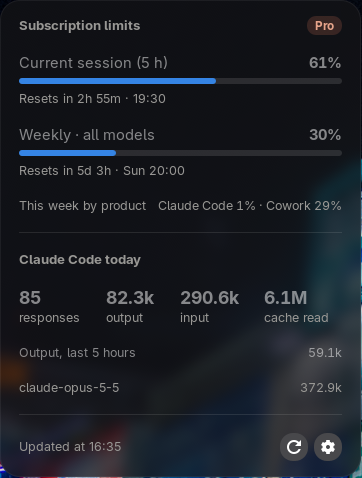
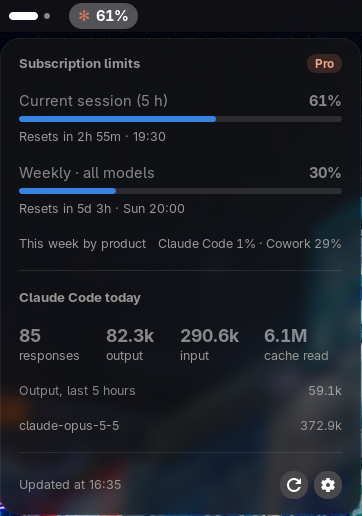
README: add table of contents, sharper screenshot

diff --git a/README.md b/README.md
@@ -2,13 +2,21 @@
 
 A small top-bar indicator for GNOME Shell that shows how much of your **Claude subscription limits** you have used, plus your **Claude Code token usage** for the day, read from local logs.
 
-![Panel indicator](docs/panel.png)
+<p align="center">
+  <img src="docs/menu.png" alt="Top-bar indicator and its dropdown menu" width="362">
+</p>
 
-By default the label reads `✻ 61% · 30%`: **current 5-hour session limit · weekly limit**. It can also show just one of them (as above), or today's Claude Code output tokens. It turns yellow at 70% and red at 90%.
+By default the label reads `✻ 61% · 30%`: **current 5-hour session limit · weekly limit**. It can also show just one of them (as above), or today's Claude Code output tokens. It turns yellow at 70% and red at 90%. Click it to open the details.
 
-Click it to open the details:
+## Contents
 
-![Dropdown menu](docs/menu.png)
+- [Features](#features)
+- [How it works](#how-it-works)
+- [Requirements](#requirements)
+- [Installation](#installation)
+- [Settings](#settings)
+- [Known limitations](#known-limitations)
+- [License](#license)
 
 ## Features
 
@@ -65,7 +73,9 @@ Logs: `journalctl -f -o cat /usr/bin/gnome-shell`
 
 Open them from the gear button in the menu, or with `gnome-extensions prefs claude-usage@perso`.
 
-![Settings window](docs/prefs.png)
+<p align="center">
+  <img src="docs/prefs.png" alt="Settings window" width="549">
+</p>
 
 | Setting | Default | |
 |---|---|---|
